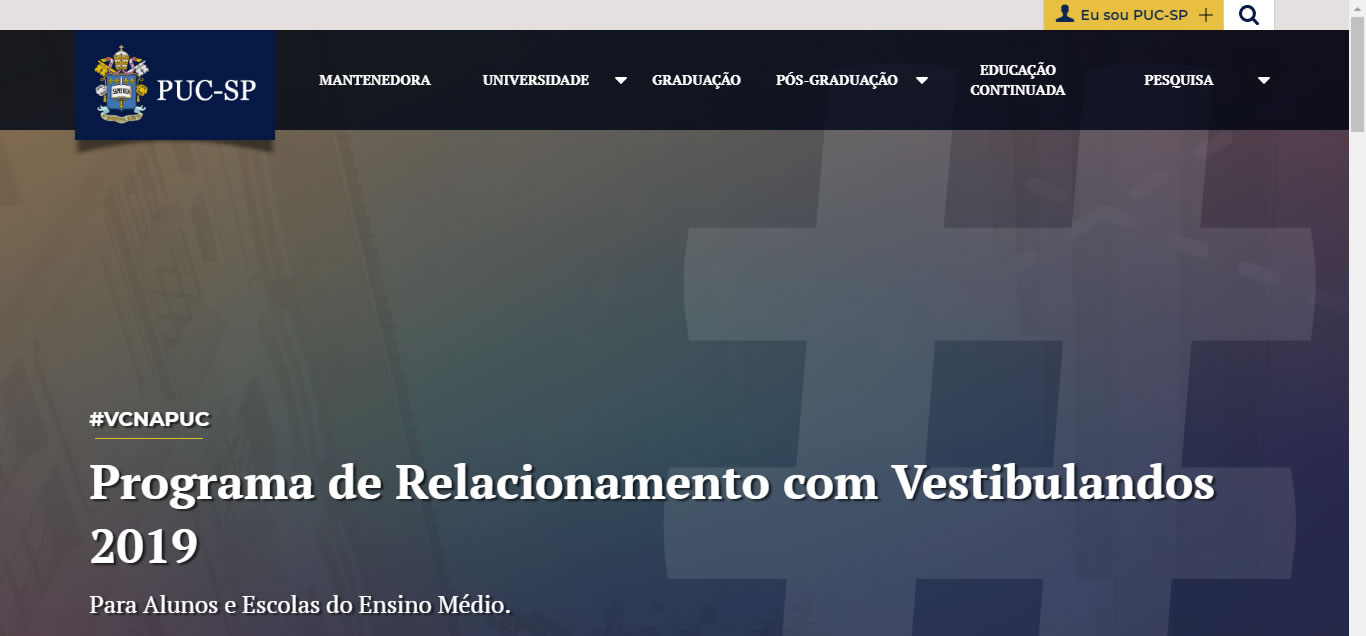
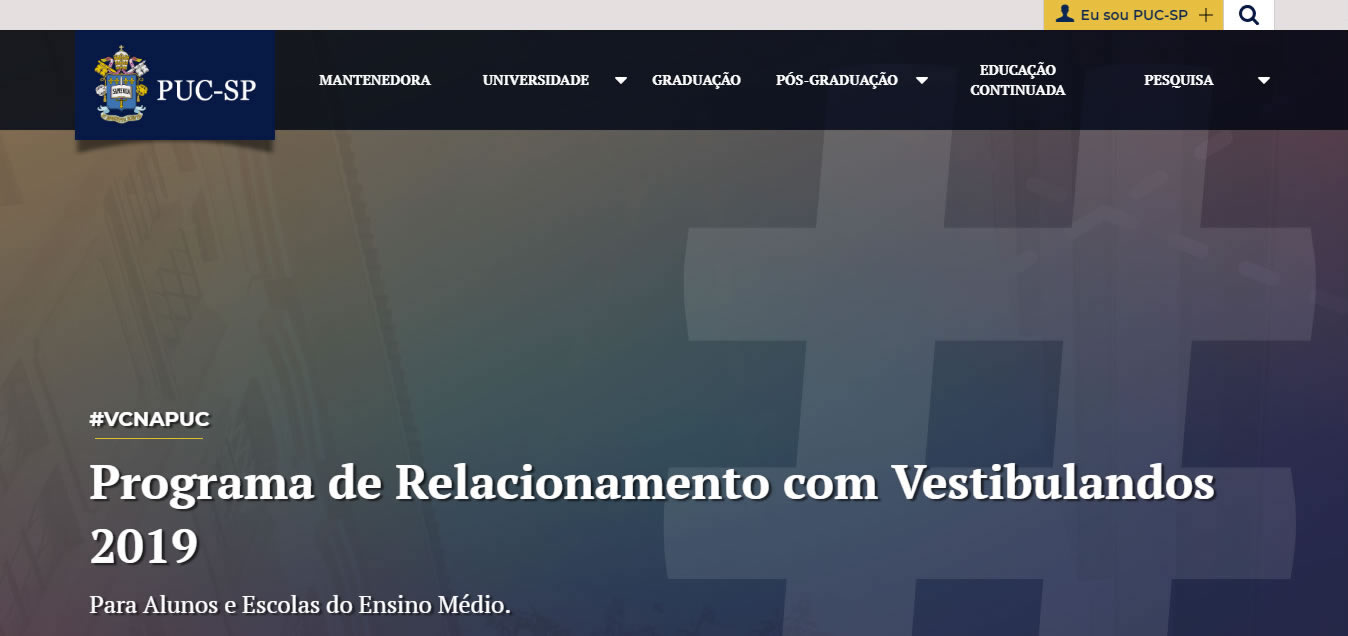
updates

diff --git a/_sass/_base.scss b/_sass/_base.scss
@@ -2,7 +2,8 @@
 //@import url(//fonts.googleapis.com/css?family=Inconsolata:400,700);
 // @import url("https://fonts.googleapis.com/css?family=Inconsolata:400,700|Montserrat:400,600,700");
 // https://fonts.google.com/?selection.family=Inconsolata:400,700|Montserrat:400,600,700&query=mont
-@import url("https://fonts.googleapis.com/css?family=Noto+Sans:400,700");
+// @import url("https://fonts.googleapis.com/css?family=Noto+Sans:400,700");
+@import url('https://fonts.googleapis.com/css?family=Montserrat:400,600,700,900|Noto+Sans:400,700');
 * {
   -webkit-box-sizing: border-box;
   -moz-box-sizing: border-box;

diff --git a/_sass/_layout.scss b/_sass/_layout.scss
@@ -98,6 +98,8 @@
     //margin-bottom: .35rem;
     font-size: 1.5rem;
     margin-bottom: 1rem;
+    font-family: 'Montserrat', sans-serif;
+    font-weight: 900;
   }
   &-date {
     margin-bottom: 2rem;
